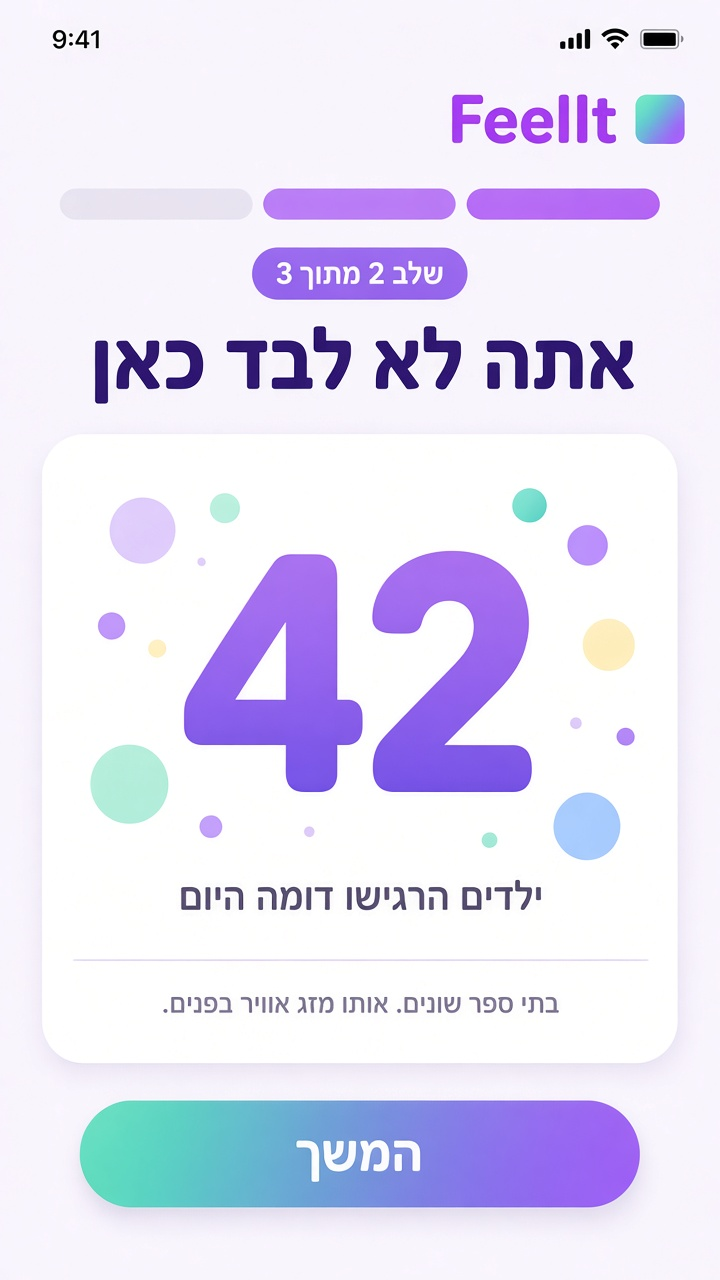
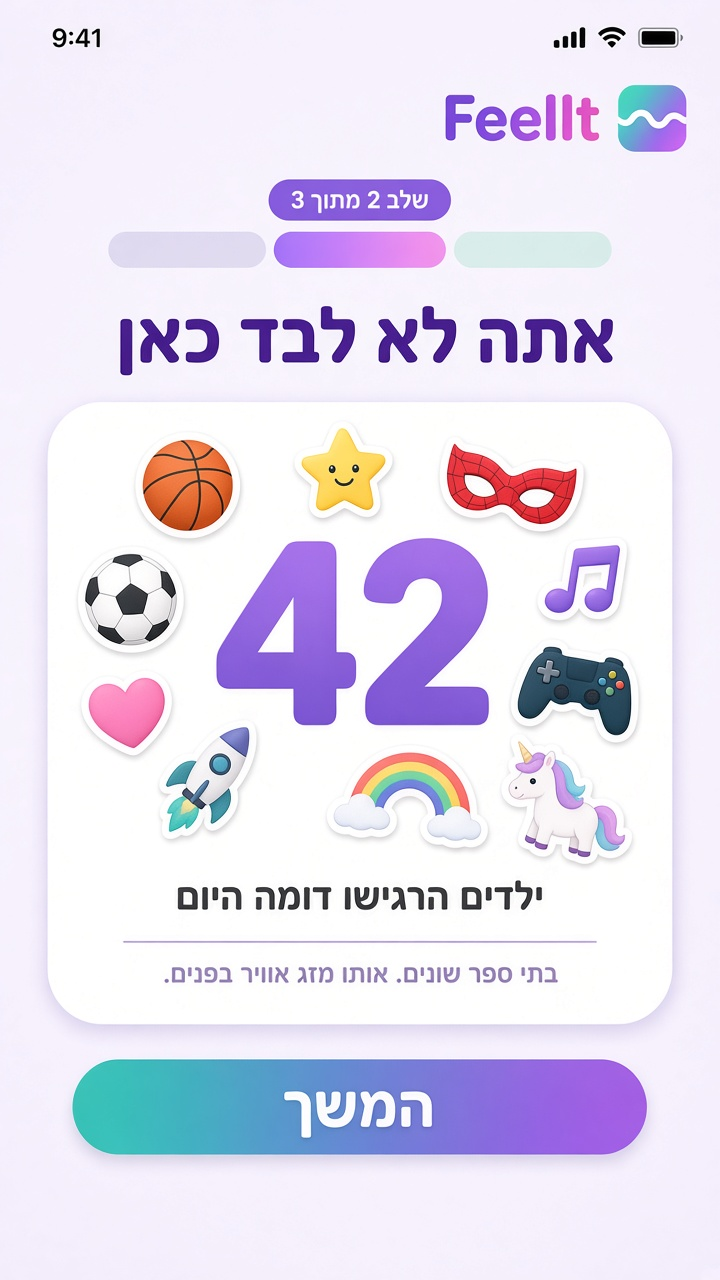
Replace abstract circles with sticker cluster on Welcome step 2
- welcome-not-alone.png: Sticker cluster around count (basketball, star,
  Spider-Man mask, soccer, heart, music, controller, rocket, rainbow,
  unicorn) instead of soft glowing dots
- README: Explain stickers as anonymous peer signals that personalize
  connection without revealing identity

Stickers use same visual language as pot stickers on My Plant - hobbies,
interests, characters representing similar-feeling peers without names,
faces, or schools.

diff --git a/README.md b/README.md
@@ -42,7 +42,7 @@ Five feeling levers (1–5 scale). Each lever has **negative pole on left**, **p
 
 #### Step 2 — You're Not Alone
 
-Shows an anonymous count of kids with similar feelings today. No names, no faces—just reassurance that "you're not alone here."
+Shows an anonymous count of kids with similar feelings today. Around the count, a cluster of **stickers** (hobbies, interests, characters) sampled from similar-feeling peers—personalizing the connection without revealing identity. No names, no faces, no schools—just reassurance that "you're not alone here."
 
 ![Welcome — Step 2](mocks/welcome-not-alone.png)
 
